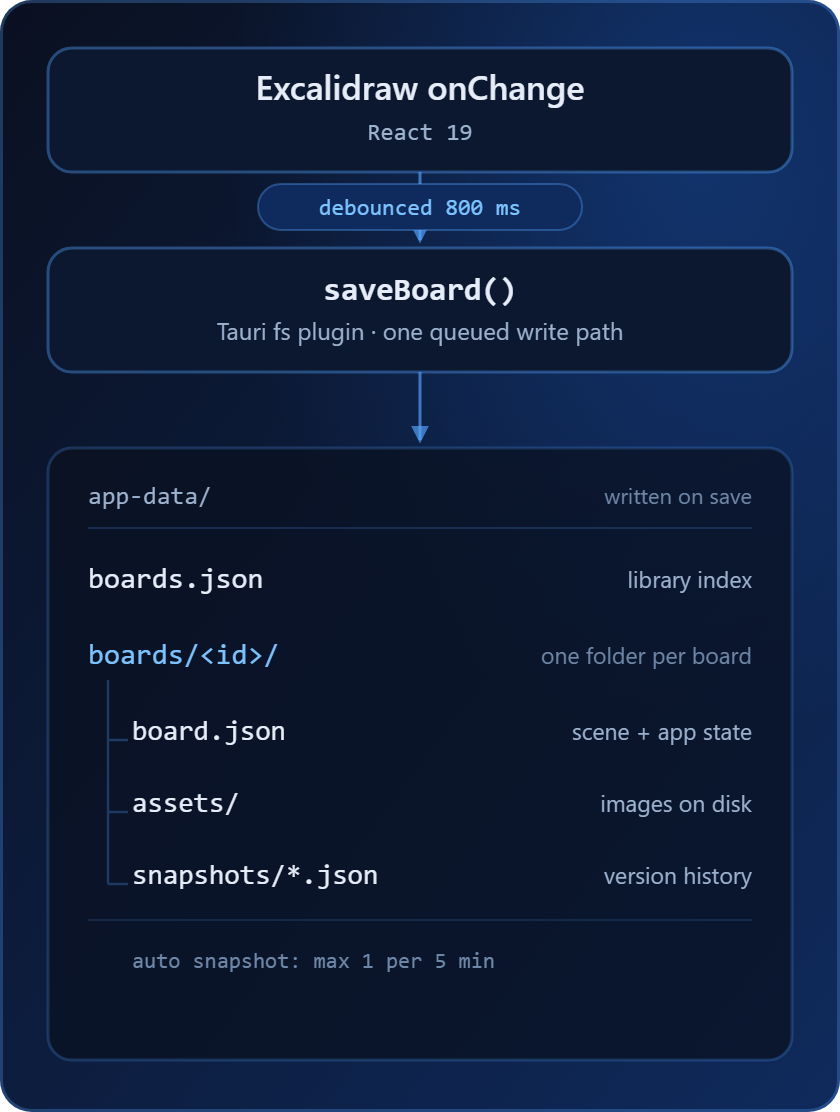
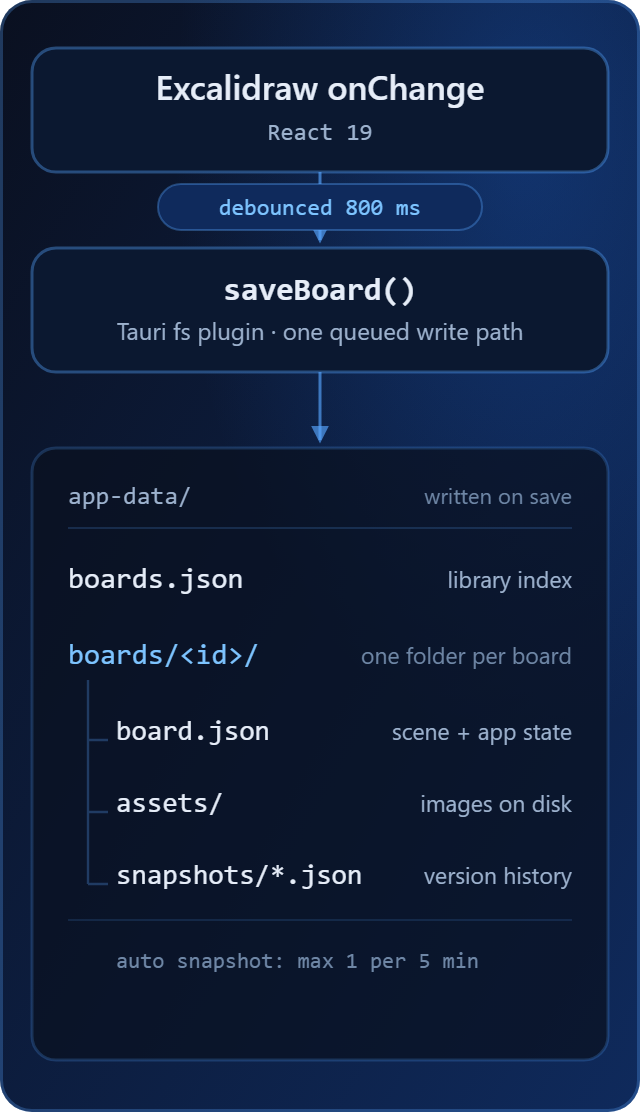
docs: keep the Canvas save diagram legible on phones

diff --git a/README.md b/README.md
@@ -28,7 +28,7 @@ A local-first whiteboard workspace for the desktop: named boards with tags, auto
 <summary>How it saves your work</summary>
 
 <p align="center">
-  <img src="assets/canvas-save-flow.png" alt="Canvas save flow: Excalidraw onChange is debounced 800 ms, then saveBoard writes boards.json plus one folder per board containing board.json, assets, and snapshots." width="420">
+  <img src="assets/canvas-save-flow.png" alt="Canvas save flow: Excalidraw onChange is debounced 800 ms, then saveBoard writes boards.json plus one folder per board containing board.json, assets, and snapshots." width="340">
 </p>
 
 One queued save path behind the debounce, so a slow disk cannot race the
